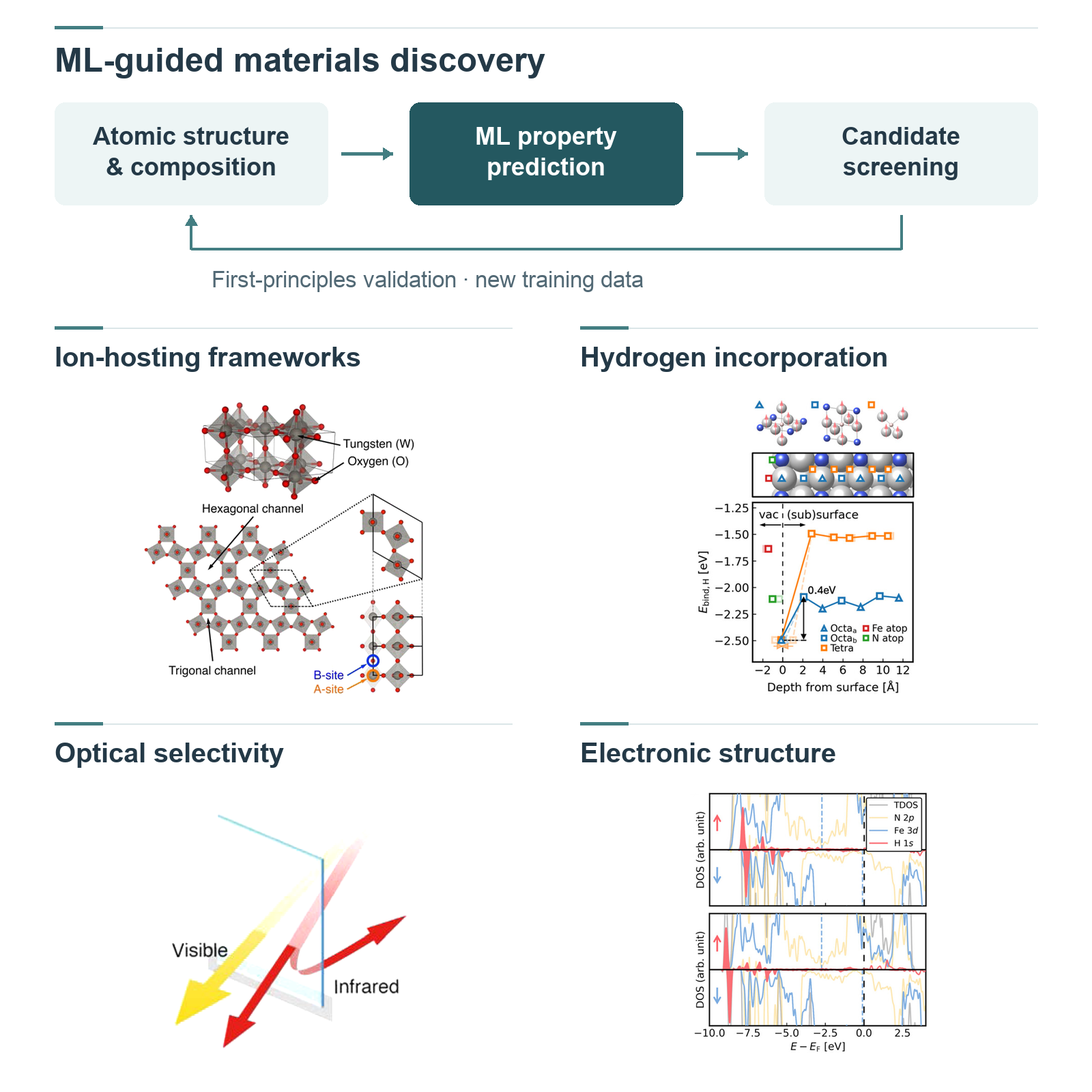
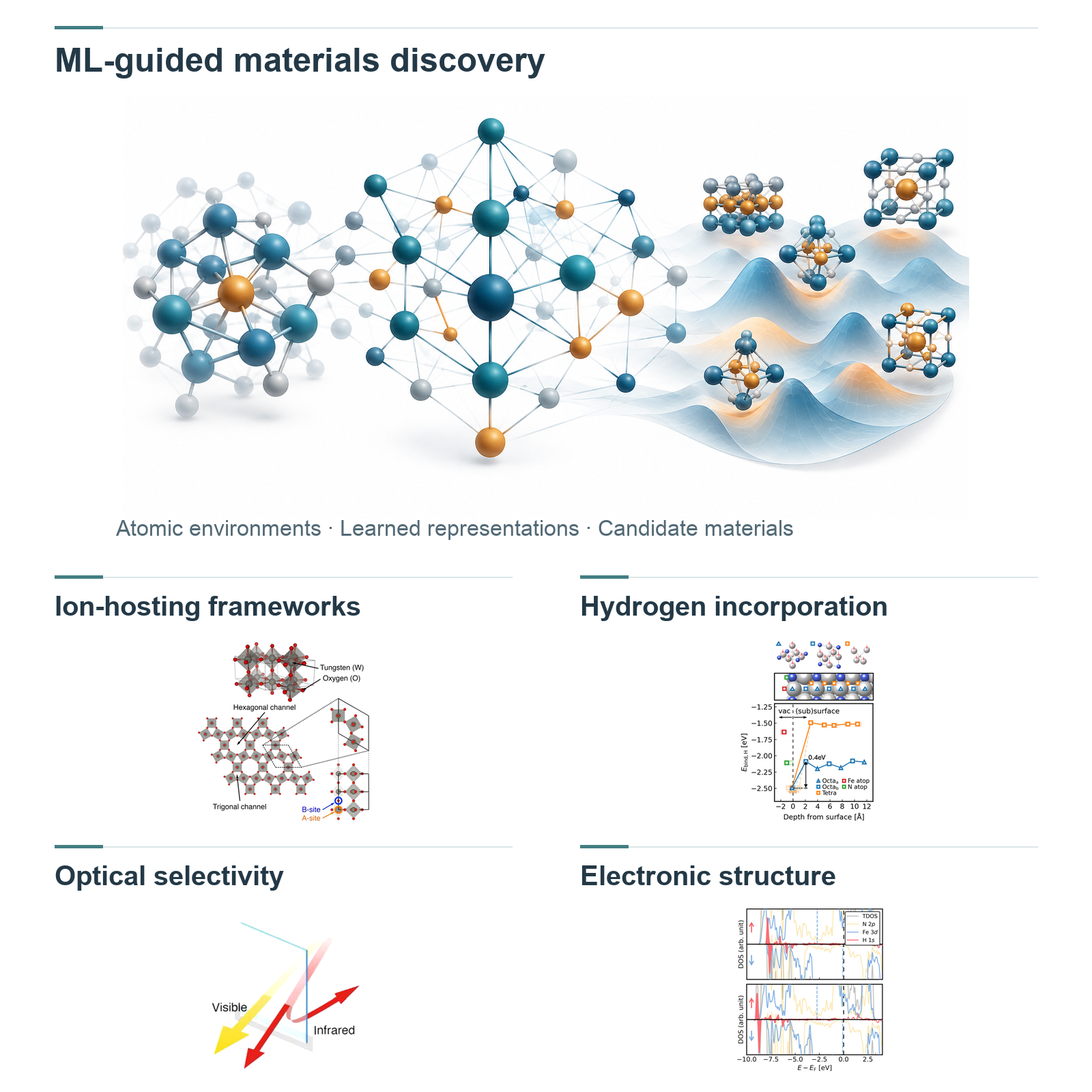
Replace materials ML flowchart with pictorial research illustration

Changed region(s): [[0.0312, 0.0938, 0.9062, 0.9688], [0.1562, 0.7812, 0.375, 0.9688]]

diff --git a/research.html b/research.html
@@ -1,1 +1,1 @@
-<!doctype html><html lang="en"><head><meta charset="utf-8"><meta name="viewport" content="width=device-width, initial-scale=1"><meta name="description" content="Explore CCML research in machine-learning atomistic simulation, dynamic surfaces and interfaces, catalytic activity and stability, and functional materials design."><meta name="theme-color" content="#1e2737"><title>Research | CCML · Dongguk University</title><link rel="icon" href="assets/mark.svg" type="image/svg+xml"><link rel="stylesheet" href="css/style.css?v=20261020-science"><script src="js/main.js" defer></script></head><body><a class="skip" href="#main">Skip to content</a><header class="header"><div class="wrap nav-wrap"><a class="brand" href="index.html" aria-label="CCML home"><img src="assets/mark.svg" width="36" height="36" alt=""><span>CCML<small>DONGGUK UNIVERSITY</small></span></a><button class="menu-button" aria-label="Open navigation" aria-expanded="false" aria-controls="navigation" hidden>☰</button><nav id="navigation" aria-label="Primary"><a href="index.html">Home</a><a href="people.html">Team</a><a href="research.html" aria-current="page">Research</a><a href="publications.html">Publications</a><a href="news.html">News</a><a href="contact.html">Contact</a><a class="scholar" href="https://scholar.google.com/citations?user=iqaMS78AAAAJ&amp;hl=en">Scholar ↗</a></nav></div></header><main id="main"><section class="page-intro"><div class="wrap"><p class="eyebrow">Four connected directions</p><h1>Research</h1><p class="lead">Machine learning and first-principles theory for atomistic discovery, predictive modeling and materials design.</p></div></section><section class="section wrap research-feature" id="ai"><figure class="research-art"><a href="assets/research/machine-learning-scientific.png?v=20261020-ml" target="_blank" rel="noopener" aria-label="Open full-size research figure"><img src="assets/research/machine-learning-scientific.png?v=20261020-ml" alt="Active-learning feedback between DFT data, ML potentials and structure exploration, with foundation-model fine-tuning and RuO2 structures." width="1600" height="1600" decoding="async"></a><figcaption><a class="text-link" href="assets/research/machine-learning-scientific.png?v=20261020-ml" target="_blank" rel="noopener">View full-size figure ↗</a></figcaption></figure><div class="research-feature-copy"><span class="number">RESEARCH / 01</span><p class="eyebrow">Active learning for atomistic discovery.</p><h2>Machine-Learning Atomistic Simulation</h2><p class="research-korean" lang="ko">머신러닝 원자 시뮬레이션</p><p>Finding a useful atomic structure begins with deciding which part of the energy landscape to explore. We develop and fine-tune machine-learning interatomic potentials from first-principles data, using active learning to identify unfamiliar environments and select new calculations. This feedback between learning and simulation enables broader structure searches and larger-scale atomistic studies.</p><p lang="ko" class="research-summary">제일원리 데이터에 기반한 머신러닝 원자간 포텐셜과 파운데이션 모델의 미세조정을 통해 복잡한 에너지 지형을 탐색합니다. 능동학습으로 새로운 원자 환경을 식별하고 필요한 계산을 선택하며, 학습과 시뮬레이션의 반복을 통해 구조 탐색의 범위와 원자 시뮬레이션의 규모를 확장합니다.</p><p class="keywords">Active learning · Foundation potentials · Fine-tuning · Structure exploration</p><a class="text-link" href="publications.html">Explore our publications →</a></div></section><section class="section wrap research-feature" id="interfaces"><figure class="research-art"><a href="assets/research/dynamic-interfaces-scientific.png?v=20261020-ml" target="_blank" rel="noopener" aria-label="Open full-size research figure"><img src="assets/research/dynamic-interfaces-scientific.png?v=20261020-ml" alt="ML-guided surface search followed by DFT refinement and interface simulation, with original coordination and water-dissociation panels." width="1600" height="1600" loading="lazy" decoding="async"></a><figcaption><a class="text-link" href="assets/research/dynamic-interfaces-scientific.png?v=20261020-ml" target="_blank" rel="noopener">View full-size figure ↗</a></figcaption></figure><div class="research-feature-copy"><span class="number">RESEARCH / 02</span><p class="eyebrow">ML-guided exploration of working interfaces.</p><h2>Dynamic Surfaces &amp; Interfaces</h2><p class="research-korean" lang="ko">동적 표면과 계면</p><p>Working surfaces can differ fundamentally from ideal crystal terminations. We use machine-learning potentials to search for reconstructions, then refine the resulting structures with first-principles calculations and investigate their interfaces through atomistic simulation. This connects a wider search of possible surfaces to the local coordination, adsorption and proton-transfer processes that govern their chemistry.</p><p lang="ko" class="research-summary">머신러닝 포텐셜을 활용하여 가능한 표면 재구성 구조를 폭넓게 탐색하고, 제일원리 계산으로 구조와 안정성을 정밀하게 분석합니다. 이어 계면 시뮬레이션을 통해 배위 환경, 흡착 및 양성자 전달을 조사하여, 반응 조건에서 형성되는 구조와 계면 화학의 관계를 규명합니다.</p><p class="keywords">ML-guided surface search · DFT refinement · Interface dynamics</p><a class="text-link" href="publications.html">Explore our publications →</a></div></section><section class="section wrap research-feature" id="catalysis"><figure class="research-art"><a href="assets/research/catalytic-stability-scientific.png?v=20261020-ml" target="_blank" rel="noopener" aria-label="Open full-size research figure"><img src="assets/research/catalytic-stability-scientific.png?v=20261020-ml" alt="Data-driven hybrid model combining kinetics, SAXS and DFT with uncertainty quantification, alongside original catalyst structures and energetics." width="1600" height="1600" loading="lazy" decoding="async"></a><figcaption><a class="text-link" href="assets/research/catalytic-stability-scientific.png?v=20261020-ml" target="_blank" rel="noopener">View full-size figure ↗</a></figcaption></figure><div class="research-feature-copy"><span class="number">RESEARCH / 03</span><p class="eyebrow">Data-driven prediction of catalyst stability.</p><h2>Catalytic Activity &amp; Stability</h2><p class="research-korean" lang="ko">촉매 활성과 안정성</p><p>A catalyst must sustain activity as its atomic sites and particle sizes evolve. We connect first-principles reaction mechanisms with data-driven models to investigate activity and degradation together. Hybrid modeling combines physical kinetics, atomistic calculations and experimental observations to predict particle ripening and assess uncertainty, while mechanistic studies resolve the active sites and dissolution pathways that shape catalyst lifetime.</p><p lang="ko" class="research-summary">제일원리 반응 메커니즘과 데이터 기반 모델을 연결하여 촉매 활성과 열화를 함께 연구합니다. 물리 기반 속도론, 원자 수준 계산 및 실험 관측을 결합한 혼합모델로 입자 성장을 예측하고 불확실성을 평가하며, 활성점과 용출 경로를 분석하여 촉매 수명을 결정하는 요인을 규명합니다.</p><p class="keywords">Hybrid modeling · Uncertainty quantification · Active sites · Ripening &amp; dissolution</p><a class="text-link" href="publications.html">Explore our publications →</a></div></section><section class="section wrap research-feature" id="materials"><span id="discovery" class="anchor-alias" aria-hidden="true"></span><figure class="research-art"><a href="assets/research/functional-materials-scientific.png?v=20261020-ml" target="_blank" rel="noopener" aria-label="Open full-size research figure"><img src="assets/research/functional-materials-scientific.png?v=20261020-ml" alt="New schematic of ML property prediction, candidate screening and first-principles validation, alongside published structure and property examples." width="1600" height="1600" loading="lazy" decoding="async"></a><figcaption><a class="text-link" href="assets/research/functional-materials-scientific.png?v=20261020-ml" target="_blank" rel="noopener">View full-size figure ↗</a></figcaption></figure><div class="research-feature-copy"><span class="number">RESEARCH / 04</span><p class="eyebrow">Learning structure–property relationships.</p><h2>Functional Materials Design</h2><p class="research-korean" lang="ko">기능성 소재 설계</p><p>Designing a functional material requires navigating many possible compositions and atomic arrangements. We combine machine-learning property prediction and candidate screening with first-principles calculations to investigate structure–property relationships and identify promising materials. Electronic, spin, ionic and optical responses provide complementary targets for connecting atomic-scale design choices to useful function.</p><p lang="ko" class="research-summary">머신러닝 물성 예측과 후보 소재 탐색을 제일원리 계산과 결합하여 조성·원자 배열과 기능 사이의 관계를 연구합니다. 전자·스핀·이온 수송 및 광학 응답을 대상으로 유망한 소재를 선별하고, 원자 수준의 설계 변수가 물성을 제어하는 원리를 분석합니다.</p><p class="keywords">ML property prediction · Candidate screening · Structure–property relationships</p><a class="text-link" href="publications.html">Explore our publications →</a></div></section><section class="join-band"><div class="wrap join-inner"><div><p class="eyebrow">Join CCML</p><h2>Explore materials.<br>Build new understanding.</h2><p>Interested in computational chemistry, atomistic modeling or AI for materials?</p></div><a class="button" href="join.html">Research with us →</a></div></section></main><footer><div class="wrap footer-grid"><div><a class="footer-brand" href="index.html">CCML</a><p>Computational Chemistry and Materials Lab<br>Dongguk University</p></div><div><h2>Contact</h2><p>Manhae Hall B211<br>30, Pildong-ro 1-gil, Jung-gu<br>Seoul 04620, Republic of Korea</p><a href="mailto:yhyuk@dgu.ac.kr">yhyuk@dgu.ac.kr</a><br><a href="tel:+82222603708">+82-2-2260-3708</a></div><div><h2>Explore</h2><p><a class="" href="join.html">Join the lab →</a><br><a class="" href="https://scholar.google.com/citations?user=iqaMS78AAAAJ&amp;hl=en">Google Scholar ↗</a><br><a class="" href="https://sites.google.com/view/ccml-group/home">Original CCML website ↗</a></p></div></div><div class="wrap footer-bottom"><span>© 2026 CCML · Dongguk University</span><a href="#main">Back to top ↑</a></div></footer></body></html>
+<!doctype html><html lang="en"><head><meta charset="utf-8"><meta name="viewport" content="width=device-width, initial-scale=1"><meta name="description" content="Explore CCML research in machine-learning atomistic simulation, dynamic surfaces and interfaces, catalytic activity and stability, and functional materials design."><meta name="theme-color" content="#1e2737"><title>Research | CCML · Dongguk University</title><link rel="icon" href="assets/mark.svg" type="image/svg+xml"><link rel="stylesheet" href="css/style.css?v=20261020-science"><script src="js/main.js" defer></script></head><body><a class="skip" href="#main">Skip to content</a><header class="header"><div class="wrap nav-wrap"><a class="brand" href="index.html" aria-label="CCML home"><img src="assets/mark.svg" width="36" height="36" alt=""><span>CCML<small>DONGGUK UNIVERSITY</small></span></a><button class="menu-button" aria-label="Open navigation" aria-expanded="false" aria-controls="navigation" hidden>☰</button><nav id="navigation" aria-label="Primary"><a href="index.html">Home</a><a href="people.html">Team</a><a href="research.html" aria-current="page">Research</a><a href="publications.html">Publications</a><a href="news.html">News</a><a href="contact.html">Contact</a><a class="scholar" href="https://scholar.google.com/citations?user=iqaMS78AAAAJ&amp;hl=en">Scholar ↗</a></nav></div></header><main id="main"><section class="page-intro"><div class="wrap"><p class="eyebrow">Four connected directions</p><h1>Research</h1><p class="lead">Machine learning and first-principles theory for atomistic discovery, predictive modeling and materials design.</p></div></section><section class="section wrap research-feature" id="ai"><figure class="research-art"><a href="assets/research/machine-learning-scientific.png?v=20261020-ml" target="_blank" rel="noopener" aria-label="Open full-size research figure"><img src="assets/research/machine-learning-scientific.png?v=20261020-ml" alt="Active-learning feedback between DFT data, ML potentials and structure exploration, with foundation-model fine-tuning and RuO2 structures." width="1600" height="1600" decoding="async"></a><figcaption><a class="text-link" href="assets/research/machine-learning-scientific.png?v=20261020-ml" target="_blank" rel="noopener">View full-size figure ↗</a></figcaption></figure><div class="research-feature-copy"><span class="number">RESEARCH / 01</span><p class="eyebrow">Active learning for atomistic discovery.</p><h2>Machine-Learning Atomistic Simulation</h2><p class="research-korean" lang="ko">머신러닝 원자 시뮬레이션</p><p>Finding a useful atomic structure begins with deciding which part of the energy landscape to explore. We develop and fine-tune machine-learning interatomic potentials from first-principles data, using active learning to identify unfamiliar environments and select new calculations. This feedback between learning and simulation enables broader structure searches and larger-scale atomistic studies.</p><p lang="ko" class="research-summary">제일원리 데이터에 기반한 머신러닝 원자간 포텐셜과 파운데이션 모델의 미세조정을 통해 복잡한 에너지 지형을 탐색합니다. 능동학습으로 새로운 원자 환경을 식별하고 필요한 계산을 선택하며, 학습과 시뮬레이션의 반복을 통해 구조 탐색의 범위와 원자 시뮬레이션의 규모를 확장합니다.</p><p class="keywords">Active learning · Foundation potentials · Fine-tuning · Structure exploration</p><a class="text-link" href="publications.html">Explore our publications →</a></div></section><section class="section wrap research-feature" id="interfaces"><figure class="research-art"><a href="assets/research/dynamic-interfaces-scientific.png?v=20261020-ml" target="_blank" rel="noopener" aria-label="Open full-size research figure"><img src="assets/research/dynamic-interfaces-scientific.png?v=20261020-ml" alt="ML-guided surface search followed by DFT refinement and interface simulation, with original coordination and water-dissociation panels." width="1600" height="1600" loading="lazy" decoding="async"></a><figcaption><a class="text-link" href="assets/research/dynamic-interfaces-scientific.png?v=20261020-ml" target="_blank" rel="noopener">View full-size figure ↗</a></figcaption></figure><div class="research-feature-copy"><span class="number">RESEARCH / 02</span><p class="eyebrow">ML-guided exploration of working interfaces.</p><h2>Dynamic Surfaces &amp; Interfaces</h2><p class="research-korean" lang="ko">동적 표면과 계면</p><p>Working surfaces can differ fundamentally from ideal crystal terminations. We use machine-learning potentials to search for reconstructions, then refine the resulting structures with first-principles calculations and investigate their interfaces through atomistic simulation. This connects a wider search of possible surfaces to the local coordination, adsorption and proton-transfer processes that govern their chemistry.</p><p lang="ko" class="research-summary">머신러닝 포텐셜을 활용하여 가능한 표면 재구성 구조를 폭넓게 탐색하고, 제일원리 계산으로 구조와 안정성을 정밀하게 분석합니다. 이어 계면 시뮬레이션을 통해 배위 환경, 흡착 및 양성자 전달을 조사하여, 반응 조건에서 형성되는 구조와 계면 화학의 관계를 규명합니다.</p><p class="keywords">ML-guided surface search · DFT refinement · Interface dynamics</p><a class="text-link" href="publications.html">Explore our publications →</a></div></section><section class="section wrap research-feature" id="catalysis"><figure class="research-art"><a href="assets/research/catalytic-stability-scientific.png?v=20261020-ml" target="_blank" rel="noopener" aria-label="Open full-size research figure"><img src="assets/research/catalytic-stability-scientific.png?v=20261020-ml" alt="Data-driven hybrid model combining kinetics, SAXS and DFT with uncertainty quantification, alongside original catalyst structures and energetics." width="1600" height="1600" loading="lazy" decoding="async"></a><figcaption><a class="text-link" href="assets/research/catalytic-stability-scientific.png?v=20261020-ml" target="_blank" rel="noopener">View full-size figure ↗</a></figcaption></figure><div class="research-feature-copy"><span class="number">RESEARCH / 03</span><p class="eyebrow">Data-driven prediction of catalyst stability.</p><h2>Catalytic Activity &amp; Stability</h2><p class="research-korean" lang="ko">촉매 활성과 안정성</p><p>A catalyst must sustain activity as its atomic sites and particle sizes evolve. We connect first-principles reaction mechanisms with data-driven models to investigate activity and degradation together. Hybrid modeling combines physical kinetics, atomistic calculations and experimental observations to predict particle ripening and assess uncertainty, while mechanistic studies resolve the active sites and dissolution pathways that shape catalyst lifetime.</p><p lang="ko" class="research-summary">제일원리 반응 메커니즘과 데이터 기반 모델을 연결하여 촉매 활성과 열화를 함께 연구합니다. 물리 기반 속도론, 원자 수준 계산 및 실험 관측을 결합한 혼합모델로 입자 성장을 예측하고 불확실성을 평가하며, 활성점과 용출 경로를 분석하여 촉매 수명을 결정하는 요인을 규명합니다.</p><p class="keywords">Hybrid modeling · Uncertainty quantification · Active sites · Ripening &amp; dissolution</p><a class="text-link" href="publications.html">Explore our publications →</a></div></section><section class="section wrap research-feature" id="materials"><span id="discovery" class="anchor-alias" aria-hidden="true"></span><figure class="research-art"><a href="assets/research/functional-materials-scientific.png?v=20261020-pictorial" target="_blank" rel="noopener" aria-label="Open full-size research figure"><img src="assets/research/functional-materials-scientific.png?v=20261020-pictorial" alt="Conceptual illustration of atomic environments, learned representations and candidate materials, above original published structure and property panels." width="1600" height="1600" loading="lazy" decoding="async"></a><figcaption><a class="text-link" href="assets/research/functional-materials-scientific.png?v=20261020-pictorial" target="_blank" rel="noopener">View full-size figure ↗</a></figcaption></figure><div class="research-feature-copy"><span class="number">RESEARCH / 04</span><p class="eyebrow">Learning structure–property relationships.</p><h2>Functional Materials Design</h2><p class="research-korean" lang="ko">기능성 소재 설계</p><p>Designing a functional material requires navigating many possible compositions and atomic arrangements. We combine machine-learning property prediction and candidate screening with first-principles calculations to investigate structure–property relationships and identify promising materials. Electronic, spin, ionic and optical responses provide complementary targets for connecting atomic-scale design choices to useful function.</p><p lang="ko" class="research-summary">머신러닝 물성 예측과 후보 소재 탐색을 제일원리 계산과 결합하여 조성·원자 배열과 기능 사이의 관계를 연구합니다. 전자·스핀·이온 수송 및 광학 응답을 대상으로 유망한 소재를 선별하고, 원자 수준의 설계 변수가 물성을 제어하는 원리를 분석합니다.</p><p class="keywords">ML property prediction · Candidate screening · Structure–property relationships</p><a class="text-link" href="publications.html">Explore our publications →</a></div></section><section class="join-band"><div class="wrap join-inner"><div><p class="eyebrow">Join CCML</p><h2>Explore materials.<br>Build new understanding.</h2><p>Interested in computational chemistry, atomistic modeling or AI for materials?</p></div><a class="button" href="join.html">Research with us →</a></div></section></main><footer><div class="wrap footer-grid"><div><a class="footer-brand" href="index.html">CCML</a><p>Computational Chemistry and Materials Lab<br>Dongguk University</p></div><div><h2>Contact</h2><p>Manhae Hall B211<br>30, Pildong-ro 1-gil, Jung-gu<br>Seoul 04620, Republic of Korea</p><a href="mailto:yhyuk@dgu.ac.kr">yhyuk@dgu.ac.kr</a><br><a href="tel:+82222603708">+82-2-2260-3708</a></div><div><h2>Explore</h2><p><a class="" href="join.html">Join the lab →</a><br><a class="" href="https://scholar.google.com/citations?user=iqaMS78AAAAJ&amp;hl=en">Google Scholar ↗</a><br><a class="" href="https://sites.google.com/view/ccml-group/home">Original CCML website ↗</a></p></div></div><div class="wrap footer-bottom"><span>© 2026 CCML · Dongguk University</span><a href="#main">Back to top ↑</a></div></footer></body></html>

diff --git a/index.html b/index.html
@@ -1,1 +1,1 @@
-<!doctype html><html lang="en"><head><meta charset="utf-8"><meta name="viewport" content="width=device-width, initial-scale=1"><meta name="description" content="Computational Chemistry and Materials Lab at Dongguk University. First-principles simulations, machine learning, catalysis and interfaces."><meta name="theme-color" content="#1e2737"><title>Home | CCML · Dongguk University</title><link rel="icon" href="assets/mark.svg" type="image/svg+xml"><link rel="stylesheet" href="css/style.css?v=20261020-science"><script src="js/main.js" defer></script><script src="data/scholar.js" defer></script><script src="js/scholar.js" defer></script></head><body><a class="skip" href="#main">Skip to content</a><header class="header"><div class="wrap nav-wrap"><a class="brand" href="index.html" aria-label="CCML home"><img src="assets/mark.svg" width="36" height="36" alt=""><span>CCML<small>DONGGUK UNIVERSITY</small></span></a><button class="menu-button" aria-label="Open navigation" aria-expanded="false" aria-controls="navigation" hidden>☰</button><nav id="navigation" aria-label="Primary"><a href="index.html" aria-current="page">Home</a><a href="people.html">Team</a><a href="research.html">Research</a><a href="publications.html">Publications</a><a href="news.html">News</a><a href="contact.html">Contact</a><a class="scholar" href="https://scholar.google.com/citations?user=iqaMS78AAAAJ&amp;hl=en">Scholar ↗</a></nav></div></header><main id="main"><section class="hero"><div class="wrap"><p class="eyebrow">Dongguk University · Chemical and Biochemical Engineering</p><h1>Computational Chemistry<br>and Materials Lab<span class="hero-dot">.</span></h1><p class="hero-copy">Learn atomic interactions. Explore structure. Predict function.<br>We combine <strong class="lavender">first-principles theory</strong>, <strong class="gold">machine-learning potentials</strong> and <strong class="mint">data-driven models</strong> to discover atomic structures, predict materials behavior and guide the search for new functionality.</p><p class="directed">Directed by <strong>Prof. Yonghyuk Lee</strong></p><section class="scholar-panel" aria-label="Google Scholar metrics"><p class="eyebrow">Research impact · Yonghyuk Lee</p><div class="scholar-values" data-scholar-values hidden><div><strong data-scholar-metric="citations"></strong><span>Citations</span></div><div><strong data-scholar-metric="h_index"></strong><span>h-index</span></div><div><strong data-scholar-metric="i10_index"></strong><span>i10-index</span></div></div><p class="caption" data-scholar-date></p><p class="caption" data-scholar-pending>For current citation metrics, visit the Google Scholar profile.</p><a class="text-link" href="https://scholar.google.com/citations?user=iqaMS78AAAAJ&amp;hl=en">Google Scholar ↗</a><noscript><p>View the Google Scholar profile for citation metrics.</p></noscript></section><a class="button" href="people.html">Meet the PI →</a></div></section><section class="section wrap"><p class="eyebrow">About the lab</p><h2>Atomic insight.<br class="mobile-only"> Materials with purpose.</h2><div class="about-grid"><div><p>Materials function emerges from atomic structure and its evolution under operating conditions. At CCML, we use machine learning to explore this complexity: learning interatomic interactions, guiding structure searches and predicting properties in close connection with first-principles theory.</p><p>Our research spans structural exploration, dynamic surfaces and interfaces, catalytic activity and stability, and electronic, spin and ionic transport. Through this work, we seek principles that connect atomic-scale mechanisms to the design of functional materials.</p><a class="text-link" href="research.html">Explore our research →</a></div><div class="korean" lang="ko"><p class="eyebrow">한국어</p><p>동국대학교 계산화학·재료 연구실(CCML)은 원자구조와 그 동적 변화가 소재의 반응성 및 수송 특성을 결정하는 원리를 연구합니다. 머신러닝으로 원자간 상호작용을 학습하고 구조 탐색과 물성 예측을 수행하며, 제일원리 계산과 연계하여 실제 작동 환경에서의 구조–물성 관계를 분석합니다.</p><p>주요 연구는 원자구조 탐색, 동적 표면과 계면, 촉매 활성과 안정성, 전자·스핀·이온 수송을 포괄합니다. 이를 통해 원자 수준의 메커니즘을 기능성 소재의 설계 원리로 연결하고자 합니다.</p></div></div></section><section class="section tint"><div class="wrap"><p class="eyebrow">Research at a glance</p><h2>Research field</h2><p class="section-desc">Four connected directions, with machine learning and physical theory linking atomic data to structure, reactivity and materials function.</p><div class="research-grid"><a class="research-card visual-research-card" href="research.html#ai"><img src="assets/research/machine-learning-scientific.png?v=20261020-ml" alt="Active-learning feedback between DFT data, ML potentials and structure exploration, with foundation-model fine-tuning and RuO2 structures." width="1600" height="1600" loading="lazy" decoding="async"><div class="research-card-copy"><span class="number">01</span><h3>Machine-Learning Atomistic Simulation</h3><p class="research-korean" lang="ko">머신러닝 원자 시뮬레이션</p><p>Active learning for atomistic discovery.</p><span class="arrow" aria-hidden="true">↗</span></div></a><a class="research-card visual-research-card" href="research.html#interfaces"><img src="assets/research/dynamic-interfaces-scientific.png?v=20261020-ml" alt="ML-guided surface search followed by DFT refinement and interface simulation, with original coordination and water-dissociation panels." width="1600" height="1600" loading="lazy" decoding="async"><div class="research-card-copy"><span class="number">02</span><h3>Dynamic Surfaces &amp; Interfaces</h3><p class="research-korean" lang="ko">동적 표면과 계면</p><p>ML-guided exploration of working interfaces.</p><span class="arrow" aria-hidden="true">↗</span></div></a><a class="research-card visual-research-card" href="research.html#catalysis"><img src="assets/research/catalytic-stability-scientific.png?v=20261020-ml" alt="Data-driven hybrid model combining kinetics, SAXS and DFT with uncertainty quantification, alongside original catalyst structures and energetics." width="1600" height="1600" loading="lazy" decoding="async"><div class="research-card-copy"><span class="number">03</span><h3>Catalytic Activity &amp; Stability</h3><p class="research-korean" lang="ko">촉매 활성과 안정성</p><p>Data-driven prediction of catalyst stability.</p><span class="arrow" aria-hidden="true">↗</span></div></a><a class="research-card visual-research-card" href="research.html#materials"><img src="assets/research/functional-materials-scientific.png?v=20261020-ml" alt="New schematic of ML property prediction, candidate screening and first-principles validation, alongside published structure and property examples." width="1600" height="1600" loading="lazy" decoding="async"><div class="research-card-copy"><span class="number">04</span><h3>Functional Materials Design</h3><p class="research-korean" lang="ko">기능성 소재 설계</p><p>Learning structure–property relationships.</p><span class="arrow" aria-hidden="true">↗</span></div></a></div></div></section><section class="section wrap"><div class="section-heading"><div><p class="eyebrow">Our work</p><h2>Selected publications</h2></div><a class="text-link" href="publications.html">All publications →</a></div><article class="publication" id="pub-27" data-year="2026" data-status="published"><span class="pub-number">27</span><div><p class="journal">ACS Catalysis, 2026, 16, 10398–10410</p><h3><a class="" href="https://doi.org/10.1021/acscatal.6c01516">Ripening of Rh Nanoparticle Catalysts in Reverse Water-Gas Shift via a Data-Driven Model Combining Physics, Theory, and Experiment ↗</a></h3></div></article><article class="publication" id="pub-20" data-year="2025" data-status="published"><span class="pub-number">20</span><div><p class="journal">Angewandte Chemie International Edition, 2025, 64, e202501017</p><h3><a class="" href="https://doi.org/10.1002/anie.202501017">Machine-Learning-Driven Exploration of Surface Reconstructions of Reduced Rutile TiO₂ ↗</a></h3></div></article><article class="publication" id="pub-18" data-year="2025" data-status="published"><span class="pub-number">18</span><div><p class="journal">Journal of the American Chemical Society, 2025, 147, 7799–7808</p><h3><a class="" href="https://doi.org/10.1021/jacs.4c17739">Machine-Learning-Accelerated Surface Exploration of Reconstructed BiVO₄(010) and Characterization of Their Aqueous Interfaces ↗</a></h3></div></article><article class="publication" id="pub-17" data-year="2025" data-status="published"><span class="pub-number">17</span><div><p class="journal">Energy &amp; Environmental Science, 2025, 18, 1214–1231</p><h3><a href="https://doi.org/10.1039/D4EE02839B">Unravelling the Mechanistic Complexity of the Oxygen Evolution Reaction and Ir Dissolution in Highly Dimensional Amorphous Hydrous Iridium Oxides ↗</a></h3></div></article></section><section class="join-band"><div class="wrap join-inner"><div><p class="eyebrow">Join CCML</p><h2>Explore materials.<br>Build new understanding.</h2><p>Interested in computational chemistry, atomistic modeling or AI for materials?</p></div><a class="button" href="join.html">Research with us →</a></div></section></main><footer><div class="wrap footer-grid"><div><a class="footer-brand" href="index.html">CCML</a><p>Computational Chemistry and Materials Lab<br>Dongguk University</p></div><div><h2>Contact</h2><p>Manhae Hall B211<br>30, Pildong-ro 1-gil, Jung-gu<br>Seoul 04620, Republic of Korea</p><a href="mailto:yhyuk@dgu.ac.kr">yhyuk@dgu.ac.kr</a><br><a href="tel:+82222603708">+82-2-2260-3708</a></div><div><h2>Explore</h2><p><a class="" href="join.html">Join the lab →</a><br><a class="" href="https://scholar.google.com/citations?user=iqaMS78AAAAJ&amp;hl=en">Google Scholar ↗</a><br><a class="" href="https://sites.google.com/view/ccml-group/home">Original CCML website ↗</a></p></div></div><div class="wrap footer-bottom"><span>© 2026 CCML · Dongguk University</span><a href="#main">Back to top ↑</a></div></footer></body></html>
+<!doctype html><html lang="en"><head><meta charset="utf-8"><meta name="viewport" content="width=device-width, initial-scale=1"><meta name="description" content="Computational Chemistry and Materials Lab at Dongguk University. First-principles simulations, machine learning, catalysis and interfaces."><meta name="theme-color" content="#1e2737"><title>Home | CCML · Dongguk University</title><link rel="icon" href="assets/mark.svg" type="image/svg+xml"><link rel="stylesheet" href="css/style.css?v=20261020-science"><script src="js/main.js" defer></script><script src="data/scholar.js" defer></script><script src="js/scholar.js" defer></script></head><body><a class="skip" href="#main">Skip to content</a><header class="header"><div class="wrap nav-wrap"><a class="brand" href="index.html" aria-label="CCML home"><img src="assets/mark.svg" width="36" height="36" alt=""><span>CCML<small>DONGGUK UNIVERSITY</small></span></a><button class="menu-button" aria-label="Open navigation" aria-expanded="false" aria-controls="navigation" hidden>☰</button><nav id="navigation" aria-label="Primary"><a href="index.html" aria-current="page">Home</a><a href="people.html">Team</a><a href="research.html">Research</a><a href="publications.html">Publications</a><a href="news.html">News</a><a href="contact.html">Contact</a><a class="scholar" href="https://scholar.google.com/citations?user=iqaMS78AAAAJ&amp;hl=en">Scholar ↗</a></nav></div></header><main id="main"><section class="hero"><div class="wrap"><p class="eyebrow">Dongguk University · Chemical and Biochemical Engineering</p><h1>Computational Chemistry<br>and Materials Lab<span class="hero-dot">.</span></h1><p class="hero-copy">Learn atomic interactions. Explore structure. Predict function.<br>We combine <strong class="lavender">first-principles theory</strong>, <strong class="gold">machine-learning potentials</strong> and <strong class="mint">data-driven models</strong> to discover atomic structures, predict materials behavior and guide the search for new functionality.</p><p class="directed">Directed by <strong>Prof. Yonghyuk Lee</strong></p><section class="scholar-panel" aria-label="Google Scholar metrics"><p class="eyebrow">Research impact · Yonghyuk Lee</p><div class="scholar-values" data-scholar-values hidden><div><strong data-scholar-metric="citations"></strong><span>Citations</span></div><div><strong data-scholar-metric="h_index"></strong><span>h-index</span></div><div><strong data-scholar-metric="i10_index"></strong><span>i10-index</span></div></div><p class="caption" data-scholar-date></p><p class="caption" data-scholar-pending>For current citation metrics, visit the Google Scholar profile.</p><a class="text-link" href="https://scholar.google.com/citations?user=iqaMS78AAAAJ&amp;hl=en">Google Scholar ↗</a><noscript><p>View the Google Scholar profile for citation metrics.</p></noscript></section><a class="button" href="people.html">Meet the PI →</a></div></section><section class="section wrap"><p class="eyebrow">About the lab</p><h2>Atomic insight.<br class="mobile-only"> Materials with purpose.</h2><div class="about-grid"><div><p>Materials function emerges from atomic structure and its evolution under operating conditions. At CCML, we use machine learning to explore this complexity: learning interatomic interactions, guiding structure searches and predicting properties in close connection with first-principles theory.</p><p>Our research spans structural exploration, dynamic surfaces and interfaces, catalytic activity and stability, and electronic, spin and ionic transport. Through this work, we seek principles that connect atomic-scale mechanisms to the design of functional materials.</p><a class="text-link" href="research.html">Explore our research →</a></div><div class="korean" lang="ko"><p class="eyebrow">한국어</p><p>동국대학교 계산화학·재료 연구실(CCML)은 원자구조와 그 동적 변화가 소재의 반응성 및 수송 특성을 결정하는 원리를 연구합니다. 머신러닝으로 원자간 상호작용을 학습하고 구조 탐색과 물성 예측을 수행하며, 제일원리 계산과 연계하여 실제 작동 환경에서의 구조–물성 관계를 분석합니다.</p><p>주요 연구는 원자구조 탐색, 동적 표면과 계면, 촉매 활성과 안정성, 전자·스핀·이온 수송을 포괄합니다. 이를 통해 원자 수준의 메커니즘을 기능성 소재의 설계 원리로 연결하고자 합니다.</p></div></div></section><section class="section tint"><div class="wrap"><p class="eyebrow">Research at a glance</p><h2>Research field</h2><p class="section-desc">Four connected directions, with machine learning and physical theory linking atomic data to structure, reactivity and materials function.</p><div class="research-grid"><a class="research-card visual-research-card" href="research.html#ai"><img src="assets/research/machine-learning-scientific.png?v=20261020-ml" alt="Active-learning feedback between DFT data, ML potentials and structure exploration, with foundation-model fine-tuning and RuO2 structures." width="1600" height="1600" loading="lazy" decoding="async"><div class="research-card-copy"><span class="number">01</span><h3>Machine-Learning Atomistic Simulation</h3><p class="research-korean" lang="ko">머신러닝 원자 시뮬레이션</p><p>Active learning for atomistic discovery.</p><span class="arrow" aria-hidden="true">↗</span></div></a><a class="research-card visual-research-card" href="research.html#interfaces"><img src="assets/research/dynamic-interfaces-scientific.png?v=20261020-ml" alt="ML-guided surface search followed by DFT refinement and interface simulation, with original coordination and water-dissociation panels." width="1600" height="1600" loading="lazy" decoding="async"><div class="research-card-copy"><span class="number">02</span><h3>Dynamic Surfaces &amp; Interfaces</h3><p class="research-korean" lang="ko">동적 표면과 계면</p><p>ML-guided exploration of working interfaces.</p><span class="arrow" aria-hidden="true">↗</span></div></a><a class="research-card visual-research-card" href="research.html#catalysis"><img src="assets/research/catalytic-stability-scientific.png?v=20261020-ml" alt="Data-driven hybrid model combining kinetics, SAXS and DFT with uncertainty quantification, alongside original catalyst structures and energetics." width="1600" height="1600" loading="lazy" decoding="async"><div class="research-card-copy"><span class="number">03</span><h3>Catalytic Activity &amp; Stability</h3><p class="research-korean" lang="ko">촉매 활성과 안정성</p><p>Data-driven prediction of catalyst stability.</p><span class="arrow" aria-hidden="true">↗</span></div></a><a class="research-card visual-research-card" href="research.html#materials"><img src="assets/research/functional-materials-scientific.png?v=20261020-pictorial" alt="Conceptual illustration of atomic environments, learned representations and candidate materials, above original published structure and property panels." width="1600" height="1600" loading="lazy" decoding="async"><div class="research-card-copy"><span class="number">04</span><h3>Functional Materials Design</h3><p class="research-korean" lang="ko">기능성 소재 설계</p><p>Learning structure–property relationships.</p><span class="arrow" aria-hidden="true">↗</span></div></a></div></div></section><section class="section wrap"><div class="section-heading"><div><p class="eyebrow">Our work</p><h2>Selected publications</h2></div><a class="text-link" href="publications.html">All publications →</a></div><article class="publication" id="pub-27" data-year="2026" data-status="published"><span class="pub-number">27</span><div><p class="journal">ACS Catalysis, 2026, 16, 10398–10410</p><h3><a class="" href="https://doi.org/10.1021/acscatal.6c01516">Ripening of Rh Nanoparticle Catalysts in Reverse Water-Gas Shift via a Data-Driven Model Combining Physics, Theory, and Experiment ↗</a></h3></div></article><article class="publication" id="pub-20" data-year="2025" data-status="published"><span class="pub-number">20</span><div><p class="journal">Angewandte Chemie International Edition, 2025, 64, e202501017</p><h3><a class="" href="https://doi.org/10.1002/anie.202501017">Machine-Learning-Driven Exploration of Surface Reconstructions of Reduced Rutile TiO₂ ↗</a></h3></div></article><article class="publication" id="pub-18" data-year="2025" data-status="published"><span class="pub-number">18</span><div><p class="journal">Journal of the American Chemical Society, 2025, 147, 7799–7808</p><h3><a class="" href="https://doi.org/10.1021/jacs.4c17739">Machine-Learning-Accelerated Surface Exploration of Reconstructed BiVO₄(010) and Characterization of Their Aqueous Interfaces ↗</a></h3></div></article><article class="publication" id="pub-17" data-year="2025" data-status="published"><span class="pub-number">17</span><div><p class="journal">Energy &amp; Environmental Science, 2025, 18, 1214–1231</p><h3><a href="https://doi.org/10.1039/D4EE02839B">Unravelling the Mechanistic Complexity of the Oxygen Evolution Reaction and Ir Dissolution in Highly Dimensional Amorphous Hydrous Iridium Oxides ↗</a></h3></div></article></section><section class="join-band"><div class="wrap join-inner"><div><p class="eyebrow">Join CCML</p><h2>Explore materials.<br>Build new understanding.</h2><p>Interested in computational chemistry, atomistic modeling or AI for materials?</p></div><a class="button" href="join.html">Research with us →</a></div></section></main><footer><div class="wrap footer-grid"><div><a class="footer-brand" href="index.html">CCML</a><p>Computational Chemistry and Materials Lab<br>Dongguk University</p></div><div><h2>Contact</h2><p>Manhae Hall B211<br>30, Pildong-ro 1-gil, Jung-gu<br>Seoul 04620, Republic of Korea</p><a href="mailto:yhyuk@dgu.ac.kr">yhyuk@dgu.ac.kr</a><br><a href="tel:+82222603708">+82-2-2260-3708</a></div><div><h2>Explore</h2><p><a class="" href="join.html">Join the lab →</a><br><a class="" href="https://scholar.google.com/citations?user=iqaMS78AAAAJ&amp;hl=en">Google Scholar ↗</a><br><a class="" href="https://sites.google.com/view/ccml-group/home">Original CCML website ↗</a></p></div></div><div class="wrap footer-bottom"><span>© 2026 CCML · Dongguk University</span><a href="#main">Back to top ↑</a></div></footer></body></html>

diff --git a/RESEARCH-FIGURES.md b/RESEARCH-FIGURES.md
@@ -1,8 +1,8 @@
 # Research figure provenance
 
-Updated 20 October 2026 (ML emphasis revision). The four overview images are stored in `assets/research/` and used on Home and Research. Research also links to each full-size image. These are 1600 × 1600 PNG collages of existing publication panels with newly drawn explanatory workflows. Atomic structures and numerical results are original source panels, not generative recreations.
+Updated 20 October 2026 (pictorial ML revision). The four overview images are stored in `assets/research/` and used on Home and Research. Research also links to each full-size image. These are 1600 × 1600 PNG collages of existing publication panels with explanatory workflows and a new conceptual illustration. Published atomic structures and numerical results remain original source panels, not generative recreations.
 
-Panels were cropped, resized proportionally and placed on white canvases. Old panel letters and circled panel indices were removed from their blank margins. Existing atomic structures, scientific curves, chemical labels and reaction arrows were retained. New headings and workflow boxes explain the role of learning and prediction. Sources are recorded here rather than printed inside the overview images.
+Panels were cropped, resized proportionally and placed on white canvases. Old panel letters and circled panel indices were removed from their blank margins. Existing atomic structures, scientific curves, chemical labels and reaction arrows were retained. New headings and explanatory visuals communicate the role of learning and prediction. The Functional Materials Design overview replaces its box-and-arrow workflow with a large pictorial ML scene. Sources are recorded here rather than printed inside the overview images.
 
 | Overview | Original papers and panels |
 | --- | --- |
@@ -15,8 +15,8 @@ The Fe₄N DOS panels show hydrogen at surface (upper) and bulk (lower) octahedr
 
 The active-learning workflow is a schematic of selecting new first-principles training data during structure exploration. The interface workflow explicitly separates ML-guided surface exploration from subsequent DFT refinement and interface simulation; the aqueous reaction panels are not relabeled as ML trajectories. The catalyst graphic shows the published data-driven hybrid model without asserting a neural-network architecture.
 
-The PI confirmed on 20 October 2026 that ML property prediction and candidate exploration are current research activities in functional materials design, and requested an original illustration where published figures are unavailable. The new materials workflow is an explanatory schematic of that research approach, not a reported benchmark or a claim that the older WO₃/Fe₄N panels were produced by ML. No predicted data, accuracy scores, rankings or newly discovered structures were fabricated.
+The PI confirmed on 20 October 2026 that ML property prediction and candidate exploration are current research activities in functional materials design, and requested an original illustration where published figures are unavailable. The new materials illustration depicts abstract atomic neighborhoods, learned representations and candidate motifs over a conceptual landscape. It was made with the built-in image-generation tool and placed above the four original paper panels using deterministic composition. Its atoms, network and landscape are illustrative, not a particular compound, model architecture, calculated property surface, reported benchmark or newly discovered structure. The older WO₃/Fe₄N panels are not represented as ML outputs. No accuracy scores or numerical predictions were added.
 
 Publisher full-text/image access was checked on the user's authorized MacBook browser. New source images were obtained through publisher figure views; previously saved local graphical abstracts were reused. Original publications retain their respective authorship and copyright. This document records provenance and edits; access alone is not a reuse license.
 
-Some original raster panels are relatively small; their native detail limits enlargement. No generative upscaling or scientific redrawing was used in the final assets. The previous artistic illustrations remain in `assets/` for recovery but are no longer displayed on Home or Research.
+Some original raster panels are relatively small; their native detail limits enlargement. No generative upscaling or redrawing was applied to the original publication panels. Only the separate conceptual ML illustration was generated. The previous artistic illustrations remain in `assets/` for recovery but are no longer displayed on Home or Research.
